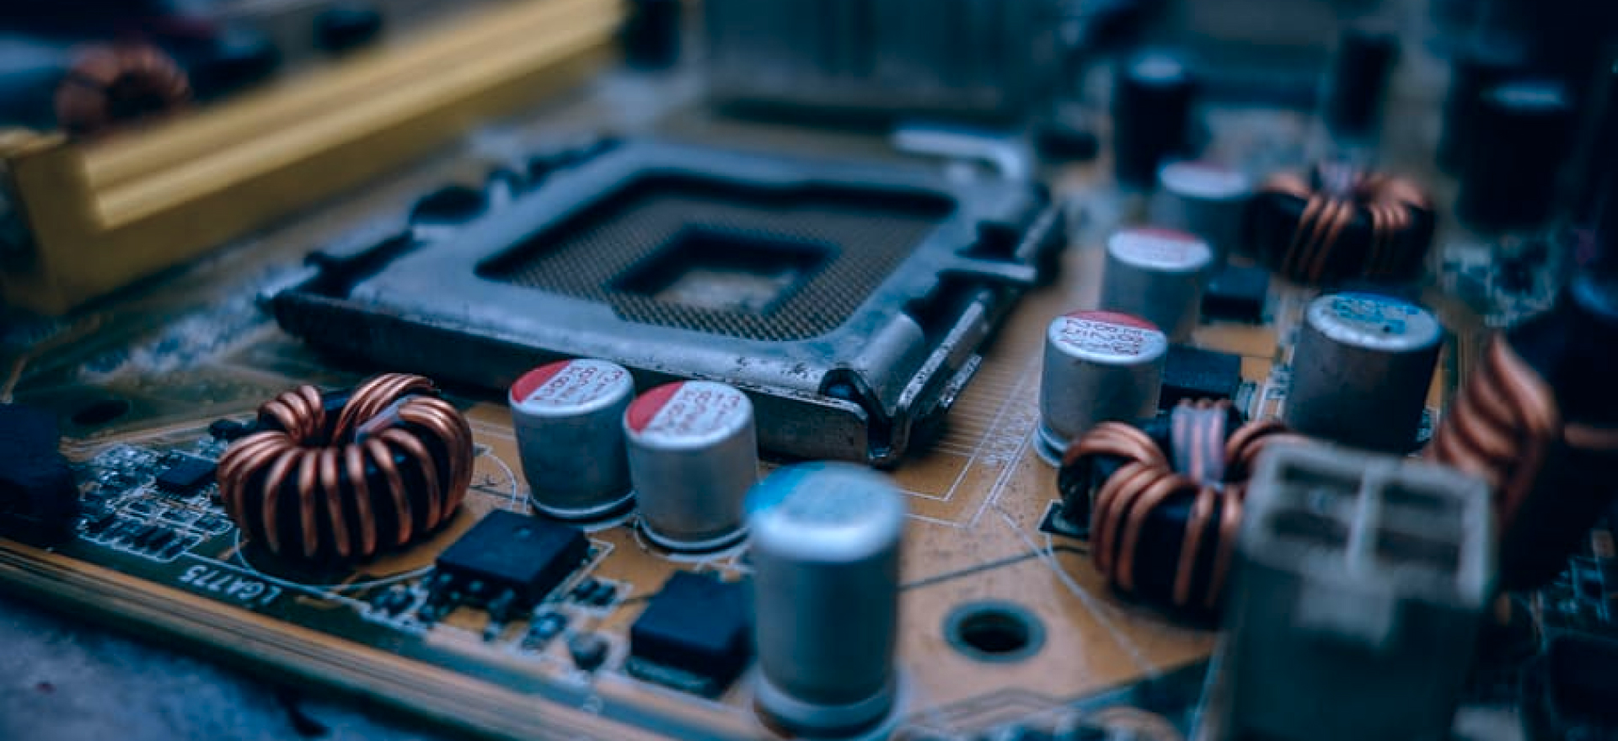
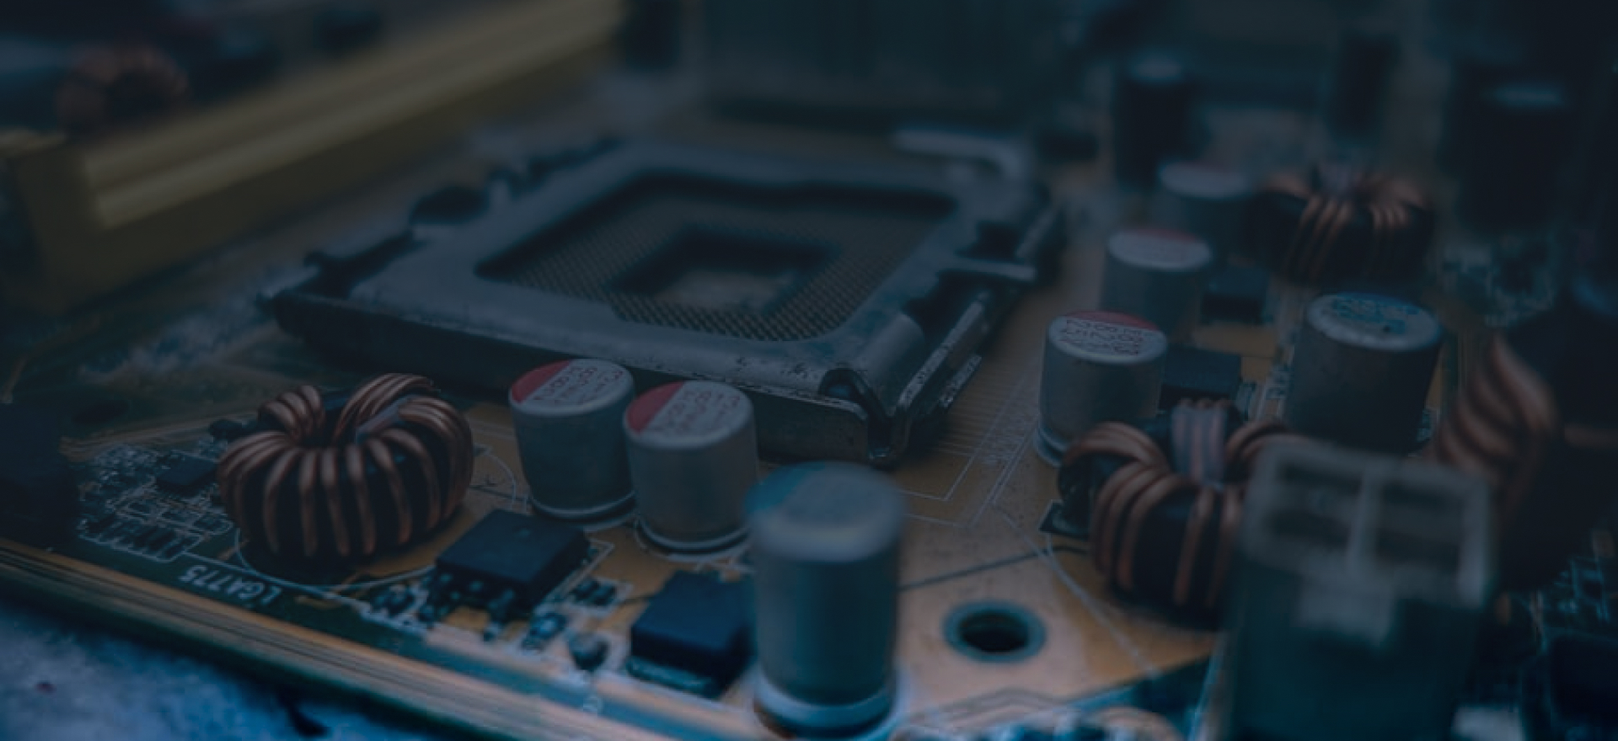
Дорабатывает шапку

diff --git a/build/css/style.min.css b/build/css/style.min.css
@@ -1,3 +1,3 @@
 /*! normalize.css v8.0.1 | MIT License | github.com/necolas/normalize.css */
-html{-webkit-text-size-adjust:100%}details,main{display:block}h1{margin:.67em 0;font-size:2em}hr{-webkit-box-sizing:content-box;box-sizing:content-box;height:0;overflow:visible}code,kbd,pre,samp{font-size:1em;font-family:monospace,monospace}a{background-color:transparent;color:#000;text-decoration:none}abbr[title]{-webkit-text-decoration:underline dotted;text-decoration:underline dotted;border-bottom:none}b,strong{font-weight:bolder}small{font-size:80%}sub,sup{position:relative;font-size:75%;line-height:0;vertical-align:baseline}sub{bottom:-.25em}sup{top:-.5em}img{border-style:none}button,input,optgroup,select,textarea{margin:0;font-size:100%;line-height:1.15;font-family:inherit}button,input{overflow:visible}button,select{text-transform:none}[type=button]::-moz-focus-inner,[type=reset]::-moz-focus-inner,[type=submit]::-moz-focus-inner,button::-moz-focus-inner{padding:0;border-style:none}[type=button]:-moz-focusring,[type=reset]:-moz-focusring,[type=submit]:-moz-focusring,button:-moz-focusring{outline:1px dotted ButtonText}fieldset{padding:.35em .75em .625em}legend{display:table;max-width:100%;color:inherit;white-space:normal}progress{vertical-align:baseline}textarea{overflow:auto;resize:none}[type=checkbox],[type=radio],legend{-webkit-box-sizing:border-box;box-sizing:border-box;padding:0}[type=number]::-webkit-inner-spin-button,[type=number]::-webkit-outer-spin-button{height:auto}[type=search]{outline-offset:-2px;-webkit-appearance:textfield}[type=search]::-webkit-search-decoration{-webkit-appearance:none}::-webkit-file-upload-button{font:inherit;-webkit-appearance:button}summary{display:list-item}.custom-select__text br,[hidden],template{display:none}@font-face{font-style:normal;font-weight:400;font-family:"PT Mono";font-display:swap;src:url(../fonts/ptmono.woff2) format("woff2")}@font-face{font-style:normal;font-weight:400;font-family:"Roboto Condensed";font-display:swap;src:url(../fonts/robotocondensed.woff2) format("woff2")}@font-face{font-style:normal;font-weight:700;font-family:"Roboto Condensed";font-display:swap;src:url(../fonts/robotocondensedbold.woff2) format("woff2")}*,::after,::before{-webkit-box-sizing:border-box;box-sizing:border-box}body,html{margin:0;padding:0;min-height:100vh}html{font-style:normal;font-weight:400;font-size:16px;line-height:22px;font-family:"PT Mono","Lucida Console",serif;color:#041827;-webkit-font-smoothing:antialiased;-moz-osx-font-smoothing:grayscale;text-rendering:optimizeLegibility}body{width:100%;height:100%;background-color:#fff}img,video{display:block;max-width:100%;height:auto}input:-webkit-autofill{-webkit-box-shadow:inset 0 0 0 1000px #fff;box-shadow:inset 0 0 0 1000px #fff;-webkit-text-fill-color:#000}input,select,textarea{border-radius:0}input::-webkit-input-placeholder,textarea::-webkit-input-placeholder{opacity:1}input::-moz-placeholder,textarea::-moz-placeholder{opacity:1}input:-ms-input-placeholder,textarea:-ms-input-placeholder{opacity:1}input::-ms-input-placeholder,textarea::-ms-input-placeholder{opacity:1}input::placeholder,textarea::placeholder{opacity:1}input:invalid,textarea:invalid{-webkit-box-shadow:none;box-shadow:none}input::-ms-clear,input::-ms-reveal{display:none}input[type=search]::-webkit-search-cancel-button,input[type=search]::-webkit-search-decoration,input[type=search]::-webkit-search-results-button,input[type=search]::-webkit-search-results-decoration{-webkit-appearance:none;appearance:none}input::-webkit-inner-spin-button,input::-webkit-outer-spin-button{margin:0;-webkit-appearance:none;appearance:none}input[type=number]{-webkit-appearance:textfield;-moz-appearance:textfield;appearance:textfield}input:matches([type=email],[type=number],[type=password],[type=search],[type=tel],[type=text],[type=url]),select,textarea{-webkit-appearance:none;-moz-appearance:none;appearance:none}[type=button],[type=reset],[type=submit],button{-webkit-appearance:none;-moz-appearance:none;appearance:none}.wrapper{position:relative;display:-webkit-box;display:-ms-flexbox;display:flex;-webkit-box-orient:vertical;-webkit-box-direction:normal;-ms-flex-direction:column;flex-direction:column;min-height:100vh;min-height:calc(100*var(--vh, 1vh))}.wrapper .footer,.wrapper .header{-ms-flex-negative:0;flex-shrink:0}.wrapper main{-webkit-box-flex:1;-ms-flex-positive:1;flex-grow:1}.rouble{font-family:"Rouble","Arial",sans-serif;text-transform:lowercase!important;font-weight:400!important}.custom-select select,.visually-hidden{position:absolute;width:1px;height:1px;margin:-1px;padding:0;overflow:hidden;white-space:nowrap;border:0;clip:rect(0 0 0 0);-webkit-clip-path:inset(100%);clip-path:inset(100%)}.scroll-lock-ios{position:fixed;overflow:hidden}.scroll-lock{overflow:hidden}.no-scrollbar{-ms-overflow-style:none;scrollbar-width:none}.modal::-webkit-scrollbar,.no-scrollbar::-webkit-scrollbar{display:none}.no-transition{-webkit-transition:none!important;-o-transition:none!important;transition:none!important}.js-focus-visible :focus:not(.focus-visible){outline:0}.container{width:100%;max-width:1320px;margin:0 auto;padding:0 50px}.btn{display:-webkit-inline-box;display:-ms-inline-flexbox;display:inline-flex;padding:15px 25px;-webkit-box-align:center;-ms-flex-align:center;align-items:center;-webkit-box-pack:center;-ms-flex-pack:center;justify-content:center;font-family:"Roboto Condensed","Arial",sans-serif;font-weight:700;text-transform:uppercase;letter-spacing:.05em;color:#fff;background-color:transparent;border:1px solid transparent;border-radius:3px;cursor:pointer;-webkit-transition:all .3s ease;-o-transition:all .3s ease;transition:all .3s ease}.btn--red{background-color:#ff1553}.btn:disabled{opacity:.5;pointer-events:none}.header{color:#f2f5f6;background:-webkit-gradient(linear,left top,left bottom,color-stop(85%,#041827),to(rgba(4,24,39,0)));background:-o-linear-gradient(top,#041827 85%,rgba(4,24,39,0));background:linear-gradient(to bottom,#041827 85%,rgba(4,24,39,0))}.header__contacts-list,.header__container{display:-webkit-box;display:-ms-flexbox;display:flex}.header__container{padding:30px 0 35px;-webkit-box-pack:justify;-ms-flex-pack:justify;justify-content:space-between;-webkit-box-align:center;-ms-flex-align:center;align-items:center;-webkit-column-gap:30px;-moz-column-gap:30px;column-gap:30px}.header__contacts-list{list-style-type:none;margin:0;padding:0;-ms-flex-wrap:wrap;flex-wrap:wrap;-webkit-column-gap:20px;-moz-column-gap:20px;column-gap:20px;row-gap:10px}.header__button{min-width:160px;padding:10px 15px;color:inherit;border-color:#f2f5f6}.header__button.focus-visible:focus{background-color:#00b2ff;border-color:#00b2ff}.header-link{line-height:18px;color:inherit;display:-ms-grid;display:grid;-ms-grid-columns:20px auto;grid-template-columns:20px auto;gap:15px;-webkit-box-align:center;-ms-flex-align:center;align-items:center;justify-items:start;-webkit-transition:opacity .3s ease;-o-transition:opacity .3s ease;transition:opacity .3s ease}.header-link.focus-visible:focus{opacity:.8}.custom-input label,.custom-textarea label,.modal{display:-webkit-box;display:-ms-flexbox;display:flex}.modal{position:fixed;top:0;right:0;bottom:0;left:0;z-index:1000;-webkit-box-orient:vertical;-webkit-box-direction:normal;-ms-flex-direction:column;flex-direction:column;overflow-y:auto;-webkit-overflow-scrolling:touch;background-color:rgba(0,0,0,.8);-webkit-transform:scale(1.2);-ms-transform:scale(1.2);transform:scale(1.2);visibility:hidden;opacity:0;-webkit-transition:opacity .6s cubic-bezier(.55,0,.1,1),visibility .6s cubic-bezier(.55,0,.1,1),-webkit-transform .6s cubic-bezier(.55,0,.1,1);-o-transition:opacity .6s cubic-bezier(.55,0,.1,1),transform .6s cubic-bezier(.55,0,.1,1),visibility .6s cubic-bezier(.55,0,.1,1);transition:opacity .6s cubic-bezier(.55,0,.1,1),transform .6s cubic-bezier(.55,0,.1,1),visibility .6s cubic-bezier(.55,0,.1,1);transition:opacity .6s cubic-bezier(.55,0,.1,1),transform .6s cubic-bezier(.55,0,.1,1),visibility .6s cubic-bezier(.55,0,.1,1),-webkit-transform .6s cubic-bezier(.55,0,.1,1);pointer-events:none;-ms-overflow-style:none;scrollbar-width:none}.modal__wrapper{position:relative;display:-webkit-box;display:-ms-flexbox;display:flex;-ms-flex-negative:0;flex-shrink:0;-webkit-box-pack:center;-ms-flex-pack:center;justify-content:center;-webkit-box-align:center;-ms-flex-align:center;align-items:center;width:100%;min-height:100%;padding:60px 40px}.modal__overlay{position:absolute;top:0;left:0;width:100%;height:100%;cursor:pointer}.modal__content{position:relative;width:600px;padding:40px;background-color:#fff}.modal__close-btn{position:absolute;top:22px;right:22px;z-index:1;width:40px;height:40px;padding:0;background:0 0;border:0;cursor:pointer}.modal--responsive .modal__content{width:100%}.modal--fit-content .modal__content{width:auto}.modal--no-scale{-webkit-transform:none;-ms-transform:none;transform:none}.modal--preload{-webkit-transition:none;-o-transition:none;transition:none}.modal.is-active{-webkit-transform:scale(1);-ms-transform:scale(1);transform:scale(1);visibility:visible;opacity:1;pointer-events:auto}.custom-input,.custom-textarea{position:relative;display:-webkit-box;display:-ms-flexbox;display:flex;width:530px;padding:14px 0 28px}.custom-input label,.custom-textarea label{-webkit-box-align:center;-ms-flex-align:center;align-items:center;width:100%}.custom-input label input,.custom-input label textarea,.custom-textarea label input,.custom-textarea label textarea{-webkit-box-flex:1;-ms-flex-positive:1;flex-grow:1;max-width:300px;min-height:48px;margin-left:auto;padding:10px;border:2px solid rgba(0,0,0,.2);border-radius:5px;outline:0;-webkit-transition:border .3s ease;-o-transition:border .3s ease;transition:border .3s ease}.custom-input label input:hover,.custom-input label textarea:hover,.custom-textarea label input:hover,.custom-textarea label textarea:hover{border:2px solid rgba(0,0,0,.5)}.custom-input label input:focus,.custom-input label textarea:focus,.custom-textarea label input:focus,.custom-textarea label textarea:focus{border:2px solid rgba(0,0,0,.8)}.custom-input__error,.custom-textarea__error{position:absolute;right:0;bottom:35px;color:#ff1553;opacity:0;-webkit-transition:opacity .3s ease;-o-transition:opacity .3s ease;transition:opacity .3s ease}.custom-input.is-invalid input,.custom-input.is-invalid textarea,.custom-textarea.is-invalid input,.custom-textarea.is-invalid textarea{border:2px solid #ff1553}.custom-input.is-invalid input:focus,.custom-input.is-invalid input:hover,.custom-input.is-invalid textarea:focus,.custom-input.is-invalid textarea:hover,.custom-textarea.is-invalid input:focus,.custom-textarea.is-invalid input:hover,.custom-textarea.is-invalid textarea:focus,.custom-textarea.is-invalid textarea:hover{border:2px solid rgba(255,21,83,.5)}.custom-input.is-valid input,.custom-textarea.is-valid input{border:2px solid #22b259}.custom-input.is-valid input:focus,.custom-input.is-valid input:hover,.custom-textarea.is-valid input:focus,.custom-textarea.is-valid input:hover{border:2px solid rgba(34,178,89,.5)}.custom-input .input-message,.custom-textarea .input-message{position:absolute;right:0;bottom:-5px}.custom-input .input-message.is-invalid,.custom-textarea .input-message.is-invalid{color:red}.custom-input .input-message.is-valid,.custom-textarea .input-message.is-valid{color:#15ab07}.custom-toggle{position:relative;font-size:18px;line-height:27px;font-weight:300;display:-webkit-box;display:-ms-flexbox;display:flex;width:500px;padding:14px 0 10px 36px}.custom-toggle:last-of-type{padding:14px 0 58px 36px}.custom-toggle input{position:absolute;width:1px;height:1px;margin:-1px;clip:rect(0 0 0 0)}.custom-toggle label{position:relative;padding-left:52px;cursor:pointer}.custom-toggle label span{margin-bottom:0;margin-left:0}.custom-toggle--checkbox .custom-toggle__icon,.custom-toggle--radio .custom-toggle__icon{position:absolute;top:0;left:0;width:28px;height:28px;border:1.5px solid #2c39f2;-webkit-transition:border .3s ease;-o-transition:border .3s ease;transition:border .3s ease}.custom-toggle--checkbox .custom-toggle__icon::before,.custom-toggle--radio .custom-toggle__icon::before{content:"";position:absolute;top:50%;left:50%;width:20px;height:20px;-webkit-transform:translate(-50%,-50%);-ms-transform:translate(-50%,-50%);transform:translate(-50%,-50%)}.custom-toggle--checkbox .custom-toggle__icon::before{background-color:transparent;-webkit-transition:background-color .3s ease;-o-transition:background-color .3s ease;transition:background-color .3s ease}.custom-toggle--radio .custom-toggle__icon{border:1px solid #2c39f2;border-radius:50%}.custom-toggle--radio .custom-toggle__icon::before{color:transparent;border-radius:50%;-webkit-transition:color .3s ease;-o-transition:color .3s ease;transition:color .3s ease}.custom-toggle input:checked+.custom-toggle__icon{border:1.5px solid #2c39f2}.custom-toggle input:checked+.custom-toggle__icon::before{background-color:#2c39f2}.custom-toggle.is-invalid label span{color:#ff1553}.custom-toggle .input-message{position:absolute;right:0;bottom:-5px}.custom-toggle .input-message.is-invalid{color:red}.custom-toggle .input-message.is-valid{color:#15ab07}.custom-select{position:relative;width:300px;padding:14px 0 28px;margin:0 0 44px}.custom-select__label,.custom-select__placeholder{position:absolute;top:50%;left:10px;-webkit-transform:translateY(-50%);-ms-transform:translateY(-50%);transform:translateY(-50%);-webkit-transition:opacity .3s ease,-webkit-transform .3s ease;-o-transition:transform .3s ease,opacity .3s ease;transition:transform .3s ease,opacity .3s ease;transition:transform .3s ease,opacity .3s ease,-webkit-transform .3s ease;pointer-events:none}.custom-select__button{display:-webkit-box;display:-ms-flexbox;display:flex;-webkit-box-align:center;-ms-flex-align:center;align-items:center;width:100%;height:48px;padding:5px 10px;background-color:transparent;border:2px solid rgba(0,0,0,.2);border-radius:5px;outline:0;cursor:pointer;-webkit-transition:border .3s ease;-o-transition:border .3s ease;transition:border .3s ease}.custom-select__button:hover{border:2px solid rgba(0,0,0,.5)}.custom-select__button:focus{border:2px solid rgba(0,0,0,.8)}.custom-select__button:disabled{pointer-events:none;opacity:.3}.custom-select__list{position:absolute;bottom:10px;z-index:1;width:100%;max-height:100px;margin:0;padding:0;overflow-y:auto;list-style:none;background-color:#fff;border:2px solid #000;-webkit-transform:translateY(100%);-ms-transform:translateY(100%);transform:translateY(100%);visibility:hidden;opacity:0;-webkit-transition:visibility .3s ease,opacity .3s ease;-o-transition:visibility .3s ease,opacity .3s ease;transition:visibility .3s ease,opacity .3s ease}.custom-select__item{padding:5px;outline:0;cursor:pointer;-webkit-transition:background-color .3s ease;-o-transition:background-color .3s ease;transition:background-color .3s ease}.custom-select__item[aria-selected=true]{background-color:rgba(0,0,0,.2)}.custom-select__item[aria-selected=true].focus-visible:focus{background-color:rgba(0,0,0,.2)}.custom-select__item.focus-visible:focus{background-color:rgba(0,0,0,.4)}.custom-select__error{position:absolute;bottom:-15px;left:0;color:#ff1553;opacity:0;-webkit-transition:opacity .1s ease;-o-transition:opacity .1s ease;transition:opacity .1s ease}.custom-select__text{font-size:20px;line-height:24px;-ms-flex-negative:0;flex-shrink:0;width:80%;overflow:hidden;text-align:left;white-space:nowrap;-o-text-overflow:ellipsis;text-overflow:ellipsis;opacity:0;-webkit-transition:opacity .3s ease .1s;-o-transition:opacity .3s ease .1s;transition:opacity .3s ease .1s}.custom-select__icon{-ms-flex-negative:0;flex-shrink:0;width:20px;height:10px;margin-left:auto;background-color:#000;-webkit-transition:-webkit-transform .3s ease;-o-transition:transform .3s ease;transition:transform .3s ease;transition:transform .3s ease,-webkit-transform .3s ease;-webkit-clip-path:polygon(100% 0,100% 20%,50% 100%,0 20%,0 0,50% 80%);clip-path:polygon(100% 0,100% 20%,50% 100%,0 20%,0 0,50% 80%)}.custom-select.is-disabled{pointer-events:none}.custom-select.is-disabled .custom-select__list{display:none}.custom-select.open-up .custom-select__list{bottom:auto;top:0;-webkit-transform:translateY(calc(-100% + 10px));-ms-transform:translateY(calc(-100% + 10px));transform:translateY(calc(-100% + 10px))}.custom-select.is-open .custom-select__list{visibility:visible;opacity:1}.custom-select.is-open .custom-select__icon{-webkit-transform:rotate(180deg);-ms-transform:rotate(180deg);transform:rotate(180deg)}.custom-select.is-open .custom-select__label{opacity:0}.custom-select.not-empty .custom-select__text{opacity:1}.custom-select.not-empty .custom-select__label,.custom-select.not-empty .custom-select__placeholder{opacity:0}.custom-select.is-invalid .custom-select__error{opacity:1}.custom-select.is-invalid .custom-select__button{border:2px solid #ff1553}.custom-select.is-invalid .custom-select__button:focus,.custom-select.is-invalid .custom-select__button:hover{border:2px solid rgba(255,21,83,.5)}.custom-select--placeholder .custom-select__label,.custom-select.slide-up.is-open .custom-select__label,.custom-select.slide-up.not-empty .custom-select__label{-webkit-transform:translateY(calc(-50% - 40px));-ms-transform:translateY(calc(-50% - 40px));transform:translateY(calc(-50% - 40px));opacity:1}.custom-select--placeholder.is-open .custom-select__label,.custom-select--placeholder.not-empty .custom-select__label,.custom-select.slide-up.is-open .custom-select__text,.custom-select.slide-up.not-empty .custom-select__text{opacity:1}.custom-select .input-message{position:absolute;right:0;bottom:-5px}.custom-select .input-message.is-invalid{color:red}.custom-select .input-message.is-valid{color:#15ab07}@media (max-width:1023px){.header__contacts-list{-webkit-column-gap:10px;-moz-column-gap:10px;column-gap:10px}.header__button{display:none}.header-link{padding:15px;display:-webkit-box;display:-ms-flexbox;display:flex}.header-link__name{display:none}}@media (max-width:767px){.container{padding:0 25px}.modal__wrapper{padding:60px 16px}.modal__content{width:100%;padding:20px}.modal--fit-content .modal__content{width:100%}}@media screen and (max-width:767px){.custom-input,.custom-textarea{padding:4px 0 48px;width:100%}.custom-input label,.custom-textarea label{-webkit-box-align:start;-ms-flex-align:start;align-items:flex-start;-webkit-box-orient:vertical;-webkit-box-direction:normal;-ms-flex-direction:column;flex-direction:column}.custom-input label input,.custom-input label textarea,.custom-textarea label input,.custom-textarea label textarea{max-width:unset;width:100%}.custom-input__label,.custom-textarea__label{margin:0 0 18px}.custom-input__error,.custom-textarea__error{bottom:20px}.custom-toggle{padding:14px 0 10px;width:100%}.custom-toggle:last-of-type{padding:14px 0 58px}.custom-select{padding:4px 0 14px;width:100%}.custom-select__label,.custom-select__placeholder{-webkit-transform:translateY(calc(-50% - 5px));-ms-transform:translateY(calc(-50% - 5px));transform:translateY(calc(-50% - 5px))}}@media (hover:hover){.header__button:hover:not(.focus-visible){background-color:#00b2ff;border-color:#00b2ff}.header-link:hover:not(.focus-visible){opacity:.8}.custom-select__item[aria-selected=true]:hover:not(.focus-visible){background-color:rgba(0,0,0,.2)}.custom-select__item:hover:not(.focus-visible){background-color:rgba(0,0,0,.4)}}
+html{-webkit-text-size-adjust:100%}details,main{display:block}h1{margin:.67em 0;font-size:2em}hr{-webkit-box-sizing:content-box;box-sizing:content-box;height:0;overflow:visible}code,kbd,pre,samp{font-size:1em;font-family:monospace,monospace}a{background-color:transparent;color:#000;text-decoration:none}abbr[title]{-webkit-text-decoration:underline dotted;text-decoration:underline dotted;border-bottom:none}b,strong{font-weight:bolder}small{font-size:80%}sub,sup{position:relative;font-size:75%;line-height:0;vertical-align:baseline}sub{bottom:-.25em}sup{top:-.5em}img{border-style:none}button,input,optgroup,select,textarea{margin:0;font-size:100%;line-height:1.15;font-family:inherit}button,input{overflow:visible}button,select{text-transform:none}[type=button]::-moz-focus-inner,[type=reset]::-moz-focus-inner,[type=submit]::-moz-focus-inner,button::-moz-focus-inner{padding:0;border-style:none}[type=button]:-moz-focusring,[type=reset]:-moz-focusring,[type=submit]:-moz-focusring,button:-moz-focusring{outline:1px dotted ButtonText}fieldset{padding:.35em .75em .625em}legend{display:table;max-width:100%;color:inherit;white-space:normal}progress{vertical-align:baseline}textarea{overflow:auto;resize:none}[type=checkbox],[type=radio],legend{-webkit-box-sizing:border-box;box-sizing:border-box;padding:0}[type=number]::-webkit-inner-spin-button,[type=number]::-webkit-outer-spin-button{height:auto}[type=search]{outline-offset:-2px;-webkit-appearance:textfield}[type=search]::-webkit-search-decoration{-webkit-appearance:none}::-webkit-file-upload-button{font:inherit;-webkit-appearance:button}summary{display:list-item}.custom-select__text br,[hidden],template{display:none}@font-face{font-style:normal;font-weight:400;font-family:"PT Mono";font-display:swap;src:url(../fonts/ptmono.woff2) format("woff2")}@font-face{font-style:normal;font-weight:400;font-family:"Roboto Condensed";font-display:swap;src:url(../fonts/robotocondensed.woff2) format("woff2")}@font-face{font-style:normal;font-weight:700;font-family:"Roboto Condensed";font-display:swap;src:url(../fonts/robotocondensedbold.woff2) format("woff2")}*,::after,::before{-webkit-box-sizing:border-box;box-sizing:border-box}body,html{margin:0;padding:0;min-height:100vh}html{font-style:normal;font-weight:400;font-size:16px;line-height:22px;font-family:"PT Mono","Lucida Console",serif;color:#041827;-webkit-font-smoothing:antialiased;-moz-osx-font-smoothing:grayscale;text-rendering:optimizeLegibility}body{width:100%;height:100%;background-color:#fff}img,video{display:block;max-width:100%;height:auto}input:-webkit-autofill{-webkit-box-shadow:inset 0 0 0 1000px #fff;box-shadow:inset 0 0 0 1000px #fff;-webkit-text-fill-color:#000}input,select,textarea{border-radius:0}input::-webkit-input-placeholder,textarea::-webkit-input-placeholder{opacity:1}input::-moz-placeholder,textarea::-moz-placeholder{opacity:1}input:-ms-input-placeholder,textarea:-ms-input-placeholder{opacity:1}input::-ms-input-placeholder,textarea::-ms-input-placeholder{opacity:1}input::placeholder,textarea::placeholder{opacity:1}input:invalid,textarea:invalid{-webkit-box-shadow:none;box-shadow:none}input::-ms-clear,input::-ms-reveal{display:none}input[type=search]::-webkit-search-cancel-button,input[type=search]::-webkit-search-decoration,input[type=search]::-webkit-search-results-button,input[type=search]::-webkit-search-results-decoration{-webkit-appearance:none;appearance:none}input::-webkit-inner-spin-button,input::-webkit-outer-spin-button{margin:0;-webkit-appearance:none;appearance:none}input[type=number]{-webkit-appearance:textfield;-moz-appearance:textfield;appearance:textfield}input:matches([type=email],[type=number],[type=password],[type=search],[type=tel],[type=text],[type=url]),select,textarea{-webkit-appearance:none;-moz-appearance:none;appearance:none}[type=button],[type=reset],[type=submit],button{-webkit-appearance:none;-moz-appearance:none;appearance:none}.wrapper{position:relative;display:-webkit-box;display:-ms-flexbox;display:flex;-webkit-box-orient:vertical;-webkit-box-direction:normal;-ms-flex-direction:column;flex-direction:column;min-height:100vh;min-height:calc(100*var(--vh, 1vh))}.wrapper .footer,.wrapper .header{-ms-flex-negative:0;flex-shrink:0}.wrapper main{-webkit-box-flex:1;-ms-flex-positive:1;flex-grow:1}.rouble{font-family:"Rouble","Arial",sans-serif;text-transform:lowercase!important;font-weight:400!important}.custom-select select,.visually-hidden{position:absolute;width:1px;height:1px;margin:-1px;padding:0;overflow:hidden;white-space:nowrap;border:0;clip:rect(0 0 0 0);-webkit-clip-path:inset(100%);clip-path:inset(100%)}.scroll-lock-ios{position:fixed;overflow:hidden}.scroll-lock{overflow:hidden}.no-scrollbar{-ms-overflow-style:none;scrollbar-width:none}.modal::-webkit-scrollbar,.no-scrollbar::-webkit-scrollbar{display:none}.no-transition{-webkit-transition:none!important;-o-transition:none!important;transition:none!important}.js-focus-visible :focus:not(.focus-visible){outline:0}.container{width:100%;max-width:1320px;margin:0 auto;padding:0 50px}.btn{display:-webkit-inline-box;display:-ms-inline-flexbox;display:inline-flex;padding:15px 25px;-webkit-box-align:center;-ms-flex-align:center;align-items:center;-webkit-box-pack:center;-ms-flex-pack:center;justify-content:center;font-family:"Roboto Condensed","Arial",sans-serif;font-weight:700;text-transform:uppercase;letter-spacing:.05em;color:#fff;background-color:transparent;border:1px solid transparent;border-radius:3px;cursor:pointer;-webkit-transition:all .3s ease;-o-transition:all .3s ease;transition:all .3s ease}.btn--red{background-color:#ff1553}.btn:disabled{opacity:.5;pointer-events:none}.header{position:fixed;top:0;left:0;right:0;color:#f2f5f6;background:-webkit-gradient(linear,left top,left bottom,color-stop(85%,#041827),to(rgba(4,24,39,0)));background:-o-linear-gradient(top,#041827 85%,rgba(4,24,39,0));background:linear-gradient(to bottom,#041827 85%,rgba(4,24,39,0))}.header__container{padding:30px 10px 35px 0;display:-webkit-box;display:-ms-flexbox;display:flex;-webkit-box-pack:justify;-ms-flex-pack:justify;justify-content:space-between;-webkit-box-align:center;-ms-flex-align:center;align-items:center;-webkit-column-gap:30px;-moz-column-gap:30px;column-gap:30px}.header__logo{width:215px;height:55px}.header__contacts-item,.header__contacts-list{display:-webkit-box;display:-ms-flexbox;display:flex}.header__contacts-list{list-style-type:none;min-width:460px;margin:0;padding:0;-ms-flex-wrap:wrap;flex-wrap:wrap;-webkit-column-gap:20px;-moz-column-gap:20px;column-gap:20px;row-gap:10px}.header__contacts-item{-webkit-box-flex:1;-ms-flex-positive:1;flex-grow:1;-webkit-box-pack:start;-ms-flex-pack:start;justify-content:start}.header__contacts-item--tel{-webkit-box-pack:end;-ms-flex-pack:end;justify-content:end}.header__button{min-width:160px;min-height:40px;margin-right:50px;padding:10px 15px;font-size:14px;color:inherit;border-color:#f2f5f6}.header__button.focus-visible:focus{background-color:#00b2ff;border-color:#00b2ff}.header-link{line-height:18px;color:inherit;display:-ms-grid;display:grid;-ms-grid-columns:20px auto;grid-template-columns:20px auto;gap:15px;-webkit-box-align:center;-ms-flex-align:center;align-items:center;justify-items:start;-webkit-transition:opacity .3s ease;-o-transition:opacity .3s ease;transition:opacity .3s ease}.header-link.focus-visible:focus{opacity:.8}.intro{color:#f2f5f6;background-color:#041827;background-image:url(../../img/main-bg.jpg);background-repeat:no-repeat;background-position:center;background-size:cover}.intro__container{padding-top:305px}.custom-input label,.custom-textarea label,.modal{display:-webkit-box;display:-ms-flexbox;display:flex}.modal{position:fixed;top:0;right:0;bottom:0;left:0;z-index:1000;-webkit-box-orient:vertical;-webkit-box-direction:normal;-ms-flex-direction:column;flex-direction:column;overflow-y:auto;-webkit-overflow-scrolling:touch;background-color:rgba(0,0,0,.8);-webkit-transform:scale(1.2);-ms-transform:scale(1.2);transform:scale(1.2);visibility:hidden;opacity:0;-webkit-transition:opacity .6s cubic-bezier(.55,0,.1,1),visibility .6s cubic-bezier(.55,0,.1,1),-webkit-transform .6s cubic-bezier(.55,0,.1,1);-o-transition:opacity .6s cubic-bezier(.55,0,.1,1),transform .6s cubic-bezier(.55,0,.1,1),visibility .6s cubic-bezier(.55,0,.1,1);transition:opacity .6s cubic-bezier(.55,0,.1,1),transform .6s cubic-bezier(.55,0,.1,1),visibility .6s cubic-bezier(.55,0,.1,1);transition:opacity .6s cubic-bezier(.55,0,.1,1),transform .6s cubic-bezier(.55,0,.1,1),visibility .6s cubic-bezier(.55,0,.1,1),-webkit-transform .6s cubic-bezier(.55,0,.1,1);pointer-events:none;-ms-overflow-style:none;scrollbar-width:none}.modal__wrapper{position:relative;display:-webkit-box;display:-ms-flexbox;display:flex;-ms-flex-negative:0;flex-shrink:0;-webkit-box-pack:center;-ms-flex-pack:center;justify-content:center;-webkit-box-align:center;-ms-flex-align:center;align-items:center;width:100%;min-height:100%;padding:60px 40px}.modal__overlay{position:absolute;top:0;left:0;width:100%;height:100%;cursor:pointer}.modal__content{position:relative;width:600px;padding:40px;background-color:#fff}.modal__close-btn{position:absolute;top:22px;right:22px;z-index:1;width:40px;height:40px;padding:0;background:0 0;border:0;cursor:pointer}.modal--responsive .modal__content{width:100%}.modal--fit-content .modal__content{width:auto}.modal--no-scale{-webkit-transform:none;-ms-transform:none;transform:none}.modal--preload{-webkit-transition:none;-o-transition:none;transition:none}.modal.is-active{-webkit-transform:scale(1);-ms-transform:scale(1);transform:scale(1);visibility:visible;opacity:1;pointer-events:auto}.custom-input,.custom-textarea{position:relative;display:-webkit-box;display:-ms-flexbox;display:flex;width:530px;padding:14px 0 28px}.custom-input label,.custom-textarea label{-webkit-box-align:center;-ms-flex-align:center;align-items:center;width:100%}.custom-input label input,.custom-input label textarea,.custom-textarea label input,.custom-textarea label textarea{-webkit-box-flex:1;-ms-flex-positive:1;flex-grow:1;max-width:300px;min-height:48px;margin-left:auto;padding:10px;border:2px solid rgba(0,0,0,.2);border-radius:5px;outline:0;-webkit-transition:border .3s ease;-o-transition:border .3s ease;transition:border .3s ease}.custom-input label input:hover,.custom-input label textarea:hover,.custom-textarea label input:hover,.custom-textarea label textarea:hover{border:2px solid rgba(0,0,0,.5)}.custom-input label input:focus,.custom-input label textarea:focus,.custom-textarea label input:focus,.custom-textarea label textarea:focus{border:2px solid rgba(0,0,0,.8)}.custom-input__error,.custom-textarea__error{position:absolute;right:0;bottom:35px;color:#ff1553;opacity:0;-webkit-transition:opacity .3s ease;-o-transition:opacity .3s ease;transition:opacity .3s ease}.custom-input.is-invalid input,.custom-input.is-invalid textarea,.custom-textarea.is-invalid input,.custom-textarea.is-invalid textarea{border:2px solid #ff1553}.custom-input.is-invalid input:focus,.custom-input.is-invalid input:hover,.custom-input.is-invalid textarea:focus,.custom-input.is-invalid textarea:hover,.custom-textarea.is-invalid input:focus,.custom-textarea.is-invalid input:hover,.custom-textarea.is-invalid textarea:focus,.custom-textarea.is-invalid textarea:hover{border:2px solid rgba(255,21,83,.5)}.custom-input.is-valid input,.custom-textarea.is-valid input{border:2px solid #22b259}.custom-input.is-valid input:focus,.custom-input.is-valid input:hover,.custom-textarea.is-valid input:focus,.custom-textarea.is-valid input:hover{border:2px solid rgba(34,178,89,.5)}.custom-input .input-message,.custom-textarea .input-message{position:absolute;right:0;bottom:-5px}.custom-input .input-message.is-invalid,.custom-textarea .input-message.is-invalid{color:red}.custom-input .input-message.is-valid,.custom-textarea .input-message.is-valid{color:#15ab07}.custom-toggle{position:relative;font-size:18px;line-height:27px;font-weight:300;display:-webkit-box;display:-ms-flexbox;display:flex;width:500px;padding:14px 0 10px 36px}.custom-toggle:last-of-type{padding:14px 0 58px 36px}.custom-toggle input{position:absolute;width:1px;height:1px;margin:-1px;clip:rect(0 0 0 0)}.custom-toggle label{position:relative;padding-left:52px;cursor:pointer}.custom-toggle label span{margin-bottom:0;margin-left:0}.custom-toggle--checkbox .custom-toggle__icon,.custom-toggle--radio .custom-toggle__icon{position:absolute;top:0;left:0;width:28px;height:28px;border:1.5px solid #2c39f2;-webkit-transition:border .3s ease;-o-transition:border .3s ease;transition:border .3s ease}.custom-toggle--checkbox .custom-toggle__icon::before,.custom-toggle--radio .custom-toggle__icon::before{content:"";position:absolute;top:50%;left:50%;width:20px;height:20px;-webkit-transform:translate(-50%,-50%);-ms-transform:translate(-50%,-50%);transform:translate(-50%,-50%)}.custom-toggle--checkbox .custom-toggle__icon::before{background-color:transparent;-webkit-transition:background-color .3s ease;-o-transition:background-color .3s ease;transition:background-color .3s ease}.custom-toggle--radio .custom-toggle__icon{border:1px solid #2c39f2;border-radius:50%}.custom-toggle--radio .custom-toggle__icon::before{color:transparent;border-radius:50%;-webkit-transition:color .3s ease;-o-transition:color .3s ease;transition:color .3s ease}.custom-toggle input:checked+.custom-toggle__icon{border:1.5px solid #2c39f2}.custom-toggle input:checked+.custom-toggle__icon::before{background-color:#2c39f2}.custom-toggle.is-invalid label span{color:#ff1553}.custom-toggle .input-message{position:absolute;right:0;bottom:-5px}.custom-toggle .input-message.is-invalid{color:red}.custom-toggle .input-message.is-valid{color:#15ab07}.custom-select{position:relative;width:300px;padding:14px 0 28px;margin:0 0 44px}.custom-select__label,.custom-select__placeholder{position:absolute;top:50%;left:10px;-webkit-transform:translateY(-50%);-ms-transform:translateY(-50%);transform:translateY(-50%);-webkit-transition:opacity .3s ease,-webkit-transform .3s ease;-o-transition:transform .3s ease,opacity .3s ease;transition:transform .3s ease,opacity .3s ease;transition:transform .3s ease,opacity .3s ease,-webkit-transform .3s ease;pointer-events:none}.custom-select__button{display:-webkit-box;display:-ms-flexbox;display:flex;-webkit-box-align:center;-ms-flex-align:center;align-items:center;width:100%;height:48px;padding:5px 10px;background-color:transparent;border:2px solid rgba(0,0,0,.2);border-radius:5px;outline:0;cursor:pointer;-webkit-transition:border .3s ease;-o-transition:border .3s ease;transition:border .3s ease}.custom-select__button:hover{border:2px solid rgba(0,0,0,.5)}.custom-select__button:focus{border:2px solid rgba(0,0,0,.8)}.custom-select__button:disabled{pointer-events:none;opacity:.3}.custom-select__list{position:absolute;bottom:10px;z-index:1;width:100%;max-height:100px;margin:0;padding:0;overflow-y:auto;list-style:none;background-color:#fff;border:2px solid #000;-webkit-transform:translateY(100%);-ms-transform:translateY(100%);transform:translateY(100%);visibility:hidden;opacity:0;-webkit-transition:visibility .3s ease,opacity .3s ease;-o-transition:visibility .3s ease,opacity .3s ease;transition:visibility .3s ease,opacity .3s ease}.custom-select__item{padding:5px;outline:0;cursor:pointer;-webkit-transition:background-color .3s ease;-o-transition:background-color .3s ease;transition:background-color .3s ease}.custom-select__item[aria-selected=true]{background-color:rgba(0,0,0,.2)}.custom-select__item[aria-selected=true].focus-visible:focus{background-color:rgba(0,0,0,.2)}.custom-select__item.focus-visible:focus{background-color:rgba(0,0,0,.4)}.custom-select__error{position:absolute;bottom:-15px;left:0;color:#ff1553;opacity:0;-webkit-transition:opacity .1s ease;-o-transition:opacity .1s ease;transition:opacity .1s ease}.custom-select__text{font-size:20px;line-height:24px;-ms-flex-negative:0;flex-shrink:0;width:80%;overflow:hidden;text-align:left;white-space:nowrap;-o-text-overflow:ellipsis;text-overflow:ellipsis;opacity:0;-webkit-transition:opacity .3s ease .1s;-o-transition:opacity .3s ease .1s;transition:opacity .3s ease .1s}.custom-select__icon{-ms-flex-negative:0;flex-shrink:0;width:20px;height:10px;margin-left:auto;background-color:#000;-webkit-transition:-webkit-transform .3s ease;-o-transition:transform .3s ease;transition:transform .3s ease;transition:transform .3s ease,-webkit-transform .3s ease;-webkit-clip-path:polygon(100% 0,100% 20%,50% 100%,0 20%,0 0,50% 80%);clip-path:polygon(100% 0,100% 20%,50% 100%,0 20%,0 0,50% 80%)}.custom-select.is-disabled{pointer-events:none}.custom-select.is-disabled .custom-select__list{display:none}.custom-select.open-up .custom-select__list{bottom:auto;top:0;-webkit-transform:translateY(calc(-100% + 10px));-ms-transform:translateY(calc(-100% + 10px));transform:translateY(calc(-100% + 10px))}.custom-select.is-open .custom-select__list{visibility:visible;opacity:1}.custom-select.is-open .custom-select__icon{-webkit-transform:rotate(180deg);-ms-transform:rotate(180deg);transform:rotate(180deg)}.custom-select.is-open .custom-select__label{opacity:0}.custom-select.not-empty .custom-select__text{opacity:1}.custom-select.not-empty .custom-select__label,.custom-select.not-empty .custom-select__placeholder{opacity:0}.custom-select.is-invalid .custom-select__error{opacity:1}.custom-select.is-invalid .custom-select__button{border:2px solid #ff1553}.custom-select.is-invalid .custom-select__button:focus,.custom-select.is-invalid .custom-select__button:hover{border:2px solid rgba(255,21,83,.5)}.custom-select--placeholder .custom-select__label,.custom-select.slide-up.is-open .custom-select__label,.custom-select.slide-up.not-empty .custom-select__label{-webkit-transform:translateY(calc(-50% - 40px));-ms-transform:translateY(calc(-50% - 40px));transform:translateY(calc(-50% - 40px));opacity:1}.custom-select--placeholder.is-open .custom-select__label,.custom-select--placeholder.not-empty .custom-select__label,.custom-select.slide-up.is-open .custom-select__text,.custom-select.slide-up.not-empty .custom-select__text{opacity:1}.custom-select .input-message{position:absolute;right:0;bottom:-5px}.custom-select .input-message.is-invalid{color:red}.custom-select .input-message.is-valid{color:#15ab07}@media (max-width:1439px){.header__contacts-item--tel{-webkit-box-pack:start;-ms-flex-pack:start;justify-content:start}}@media (max-width:1023px){.header{position:absolute}.header__container{padding:20px 15px 25px 0;-webkit-box-align:start;-ms-flex-align:start;align-items:start}.header__contacts-list{min-width:auto;margin-top:-5px;-webkit-column-gap:10px;-moz-column-gap:10px;column-gap:10px}.header__button{display:none}.header-link{padding:15px;display:-webkit-box;display:-ms-flexbox;display:flex}.header-link__name{display:none}.intro__container{padding-top:180px}}@media (max-width:767px){.container{padding:0 25px}.header__container{padding:10px 5px 15px 0}.header__logo{width:35px}.modal__wrapper{padding:60px 16px}.modal__content{width:100%;padding:20px}.modal--fit-content .modal__content{width:100%}}@media screen and (max-width:767px){.custom-input,.custom-textarea{padding:4px 0 48px;width:100%}.custom-input label,.custom-textarea label{-webkit-box-align:start;-ms-flex-align:start;align-items:flex-start;-webkit-box-orient:vertical;-webkit-box-direction:normal;-ms-flex-direction:column;flex-direction:column}.custom-input label input,.custom-input label textarea,.custom-textarea label input,.custom-textarea label textarea{max-width:unset;width:100%}.custom-input__label,.custom-textarea__label{margin:0 0 18px}.custom-input__error,.custom-textarea__error{bottom:20px}.custom-toggle{padding:14px 0 10px;width:100%}.custom-toggle:last-of-type{padding:14px 0 58px}.custom-select{padding:4px 0 14px;width:100%}.custom-select__label,.custom-select__placeholder{-webkit-transform:translateY(calc(-50% - 5px));-ms-transform:translateY(calc(-50% - 5px));transform:translateY(calc(-50% - 5px))}}@media (hover:hover){.header__button:hover:not(.focus-visible){background-color:#00b2ff;border-color:#00b2ff}.header-link:hover:not(.focus-visible){opacity:.8}.custom-select__item[aria-selected=true]:hover:not(.focus-visible){background-color:rgba(0,0,0,.2)}.custom-select__item:hover:not(.focus-visible){background-color:rgba(0,0,0,.4)}}
 /*# sourceMappingURL=style.min.css.map */

diff --git a/build/css/style.css b/build/css/style.css
@@ -670,6 +670,10 @@ button,
 }
 
 .header {
+  position: fixed;
+  top: 0;
+  left: 0;
+  right: 0;
   color: #f2f5f6;
   background: -webkit-gradient(linear, left top, left bottom, color-stop(85%, #041827), to(rgba(4, 24, 39, 0)));
   background: -o-linear-gradient(top, #041827 85%, rgba(4, 24, 39, 0));
@@ -677,7 +681,7 @@ button,
 }
 
 .header__container {
-  padding: 30px 0 35px;
+  padding: 30px 10px 35px 0;
   display: -webkit-box;
   display: -ms-flexbox;
   display: flex;
@@ -692,8 +696,14 @@ button,
   column-gap: 30px;
 }
 
+.header__logo {
+  width: 215px;
+  height: 55px;
+}
+
 .header__contacts-list {
   list-style-type: none;
+  min-width: 460px;
   margin: 0;
   padding: 0;
   display: -webkit-box;
@@ -707,9 +717,30 @@ button,
   row-gap: 10px;
 }
 
+.header__contacts-item {
+  -webkit-box-flex: 1;
+  -ms-flex-positive: 1;
+  flex-grow: 1;
+  display: -webkit-box;
+  display: -ms-flexbox;
+  display: flex;
+  -webkit-box-pack: start;
+  -ms-flex-pack: start;
+  justify-content: start;
+}
+
+.header__contacts-item--tel {
+  -webkit-box-pack: end;
+  -ms-flex-pack: end;
+  justify-content: end;
+}
+
 .header__button {
   min-width: 160px;
-  padding: 10px 15px;
+  min-height: 40px;
+  margin-right: 50px;
+  padding: 10px 15px 10px;
+  font-size: 14px;
   color: inherit;
   border-color: #f2f5f6;
 }
@@ -738,6 +769,19 @@ button,
 
 .header-link.focus-visible:focus {
   opacity: 0.8;
+}
+
+.intro {
+  color: #f2f5f6;
+  background-color: #041827;
+  background-image: url("../../img/main-bg.jpg");
+  background-repeat: no-repeat;
+  background-position: center;
+  background-size: cover;
+}
+
+.intro__container {
+  padding-top: 305px;
 }
 
 .modal {
@@ -1408,8 +1452,29 @@ button,
   }
 */
 
+@media (max-width: 1439px) {
+  .header__contacts-item--tel {
+    -webkit-box-pack: start;
+    -ms-flex-pack: start;
+    justify-content: start;
+  }
+}
+
 @media (max-width: 1023px) {
+  .header {
+    position: absolute;
+  }
+
+  .header__container {
+    padding: 20px 15px 25px 0;
+    -webkit-box-align: start;
+    -ms-flex-align: start;
+    align-items: start;
+  }
+
   .header__contacts-list {
+    min-width: auto;
+    margin-top: -5px;
     -webkit-column-gap: 10px;
     -moz-column-gap: 10px;
     column-gap: 10px;
@@ -1429,11 +1494,23 @@ button,
   .header-link__name {
     display: none;
   }
+
+  .intro__container {
+    padding-top: 180px;
+  }
 }
 
 @media (max-width: 767px) {
   .container {
     padding: 0 25px;
+  }
+
+  .header__container {
+    padding: 10px 5px 15px 0;
+  }
+
+  .header__logo {
+    width: 35px;
   }
 
   .modal__wrapper {

diff --git a/source/sass/blocks/header.scss b/source/sass/blocks/header.scss
@@ -1,18 +1,46 @@
 .header {
+  position: fixed;
+  top: 0;
+  left: 0;
+  right: 0;
   color: $color-alice-blue;
   background: linear-gradient(to bottom, $color-black-pearl 85%, rgba(4, 24, 39, 0));
+
+  @include vp-1023 {
+    position: absolute;
+  }
 }
 
 .header__container {
-  padding: 30px 0 35px;
+  padding: 30px 10px 35px 0;
   display: flex;
   justify-content: space-between;
   align-items: center;
   column-gap: 30px;
+
+  @include vp-1023 {
+    padding: 20px 15px 25px 0;
+    align-items: start;
+  }
+
+  @include vp-767 {
+    padding: 10px 5px 15px 0;
+  }
 }
+
+.header__logo {
+  width: 215px;
+  height: 55px;
+
+  @include vp-767 {
+    width: 35px;
+  }
+}
+
 
 .header__contacts-list {
   list-style-type: none;
+  min-width: 460px;
   margin: 0;
   padding: 0;
   display: flex;
@@ -21,13 +49,34 @@
   row-gap: 10px;
 
   @include vp-1023 {
+    min-width: auto;
+    margin-top: -5px;
     column-gap: 10px;
+  }
+}
+
+.header__contacts-item {
+  flex-grow: 1;
+  display: flex;
+  justify-content: start;
+
+  &--tel {
+    justify-content: end;
+  }
+
+  @include vp-1439 {
+    &--tel {
+      justify-content: start;
+    }
   }
 }
 
 .header__button {
   min-width: 160px;
-  padding: 10px 15px;
+  min-height: 40px;
+  margin-right: 50px;
+  padding: 10px 15px 10px;
+  font-size: 14px;
   color: inherit;
   border-color: $color-alice-blue;
 

diff --git a/build/index.html b/build/index.html
@@ -32,7 +32,7 @@
                 </svg>
                 <span class="header-link__name">info@sd.ru</span></a>
             </li>
-            <li class="header__contacts-item">
+            <li class="header__contacts-item header__contacts-item--tel">
               <a href="tel:+7495005252" class="header__contacts-link header-link">
                 <svg class="header-link__icon" width="20" height="20" viewBox="0 0 20 20"
                   aria-label="отправить электронное письмо">

diff --git a/source/index.html b/source/index.html
@@ -32,7 +32,7 @@
                 </svg>
                 <span class="header-link__name">info@sd.ru</span></a>
             </li>
-            <li class="header__contacts-item">
+            <li class="header__contacts-item header__contacts-item--tel">
               <a href="tel:+7495005252" class="header__contacts-link header-link">
                 <svg class="header-link__icon" width="20" height="20" viewBox="0 0 20 20"
                   aria-label="отправить электронное письмо">

diff --git a/source/sass/blocks/intro.scss b/source/sass/blocks/intro.scss
@@ -1,0 +1,16 @@
+.intro {
+  color: $color-alice-blue;
+  background-color: $color-black-pearl;
+  background-image: url("../../img/main-bg.jpg");
+  background-repeat: no-repeat;
+  background-position: center;
+  background-size: cover;
+}
+
+.intro__container {
+  padding-top: 305px;
+
+  @include vp-1023 {
+    padding-top: 180px;
+  }
+}

diff --git a/source/sass/style.scss b/source/sass/style.scss
@@ -20,6 +20,7 @@
 @import "blocks/btn";
 @import "blocks/header.scss";
 @import "blocks/header-link.scss";
+@import "blocks/intro.scss";
 @import "blocks/modal";
 @import "blocks/custom-input";
 @import "blocks/custom-toggle";
